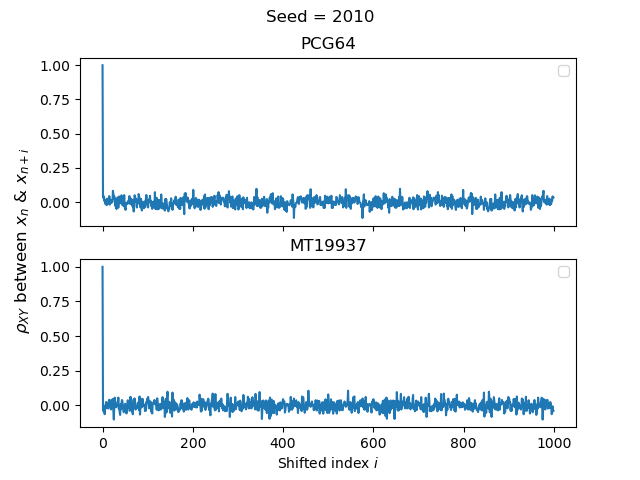
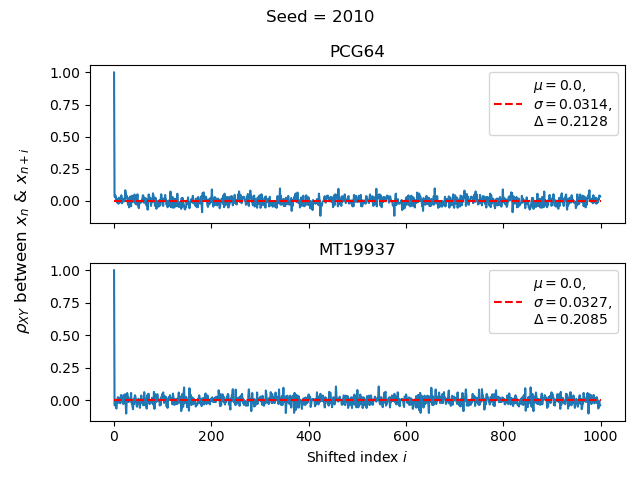
Some graphs

diff --git a/RNG_comp.py b/RNG_comp.py
@@ -23,17 +23,18 @@ def chisquare_test(array, bins):
         [float]: Chi-squared value
     """
 
-    f_observed = np.histogram(array, bins)  # Split input array into M equal bins
+    f_observed = np.histogram(array, bins)[0]  # Split input array into M equal bins
     f_expected = np.ones(bins) * (len(array) / bins)  # Assume equal spacing in bins
     chi_square_array = [0] * bins  # Placeholding empty array
     for i in range(len(array)):
-        chi_square_array[i] = (f_observed[i] - f_expected[i]) ** 2 / f_expected[i]  # chi square equation
+        chi_square_array[i] = (f_observed[i] - f_expected[i]) ** 2 / f_expected[i]
+         # chi square equation
 
     return np.sum(chi_square_array)
 
     """Using different initial seeds and at least two different pseudo-random
 generators, produce sequences of uniformly distributed random numbers.
-Test these values for a) uniformity and b) lack of sequential
+Test these values for a) sequential and b) lack of sequential
 correlation. Present your analysis as graphically as possible.
     """
 
@@ -78,7 +79,7 @@ plt.title("PCG64\n")
 plt.tight_layout()
 plt.savefig(fname="IMAGES/PCG64-6-15832")
 
-# Shifted value comparison ( uniformity )
+# Shifted value comparison ( sequential )
 plt.figure(figsize=(6, 6))
 plt.scatter(x1, x15, marker="x")
 plt.xlabel("$x_n$")
@@ -92,7 +93,7 @@ plt.title(
 plt.tight_layout()
 plt.savefig(fname="IMAGES/PCG64-6")
 
-# Shifted value comparison ( uniformity )
+# Shifted value comparison ( sequential )
 plt.figure(figsize=(6, 6))
 plt.scatter(x2, x25, marker="x")
 plt.xlabel("$x_n$")
@@ -164,7 +165,7 @@ plt.title("MT19937\n")
 plt.tight_layout()
 plt.savefig(fname="IMAGES/MT19937-5525-7381")
 
-# Shifted value comparison ( uniformity )
+# Shifted value comparison ( sequential )
 plt.figure(figsize=(6, 6))
 plt.scatter(y1, y15, marker="x")
 plt.xlabel("$x_n$")
@@ -178,7 +179,7 @@ plt.title(
 plt.tight_layout()
 plt.savefig(fname="IMAGES/MT19937-5255")
 
-# Shifted value comparison ( uniformity )
+# Shifted value comparison ( sequential )
 plt.figure(figsize=(6, 6))
 plt.scatter(y2, y25, marker="x")
 plt.xlabel("$x_n$")
@@ -247,6 +248,7 @@ ax1.set_title("PCG64")
 ax1.text(
     shift[5], correlation1.max() - 5, "Max = {}".format(np.round(correlation1.max(), 2))
 )
+
 ax1.hlines(
     np.mean(correlation1[1:1000]),
     0,
@@ -257,12 +259,13 @@ ax1.hlines(
         np.round(np.mean(correlation1[1:1000]), 2), std1, range1
     ),
 )
-ax1.text(1002, 231, "$\Delta$")
+
 ax2.plot(shift, correlation2)
 ax2.set_title("MT19937")
 ax2.text(
     shift[5], correlation2.max() - 5, "Max = {}".format(np.round(correlation2.max(), 2))
 )
+
 ax2.hlines(
     np.mean(correlation2[1:1000]),
     0,
@@ -273,7 +276,6 @@ ax2.hlines(
         np.round(np.mean(correlation2[1:1000]), 2), std2, range2
     ),
 )
-ax2.text(1002, 250, "$\Delta$")
 fig.suptitle("Seed = 2010")
 ax2.set_xlabel("Shifted index $i$")
 fig.supylabel("Cross-correlation between $x_n~&~x_{n+i}$")
@@ -282,14 +284,43 @@ ax2.legend()
 plt.tight_layout()
 plt.savefig("IMAGES/Correlation-shift-comparison")
 
+pearson_range1 = np.round(pearsoncoeff5[1:1000].max() - pearsoncoeff5.min(), 4)
+pearson_range2 = np.round(pearsoncoeff6[1:1000].max() - pearsoncoeff6.min(), 4)
+pearson_std1 = np.round(np.std(pearsoncoeff5[1:1000]), 4)
+pearson_std2 = np.round(np.std(pearsoncoeff6[1:1000]), 4)
+
 fig2, (ax1, ax2) = plt.subplots(2, 1, sharex=True)
 ax1.plot(shift, pearsoncoeff5)
 ax1.set_title("PCG64")
+
+ax1.hlines(
+    np.mean(pearsoncoeff5[1:1000]),
+    0,
+    1000,
+    "r",
+    "--",
+    label="$\mu = {}$,\n$\sigma = {}$,\n$\Delta = {}$".format(
+        np.round(np.mean(pearsoncoeff5[1:1000])*-1, 2), pearson_std1, pearson_range1
+    ),
+)
 ax2.plot(shift, pearsoncoeff6)
 ax2.set_title("MT19937")
+
+ax2.hlines(
+    np.mean(pearsoncoeff6[1:1000]),
+    0,
+    1000,
+    "r",
+    "--",
+    label="$\mu = {}$,\n$\sigma = {}$,\n$\Delta = {}$".format(
+        np.round(np.mean(pearsoncoeff6[1:1000])*-1, 2), pearson_std2, pearson_range2
+    ),
+)
+
 fig2.suptitle("Seed = 2010")
 ax2.set_xlabel("Shifted index $i$")
 fig2.supylabel(r"$\rho_{XY}$ between $x_n~&~x_{n+i}$")
 ax1.legend()
 ax2.legend()
+plt.tight_layout()
 plt.savefig("IMAGES/Pearson-shift-comparison")
